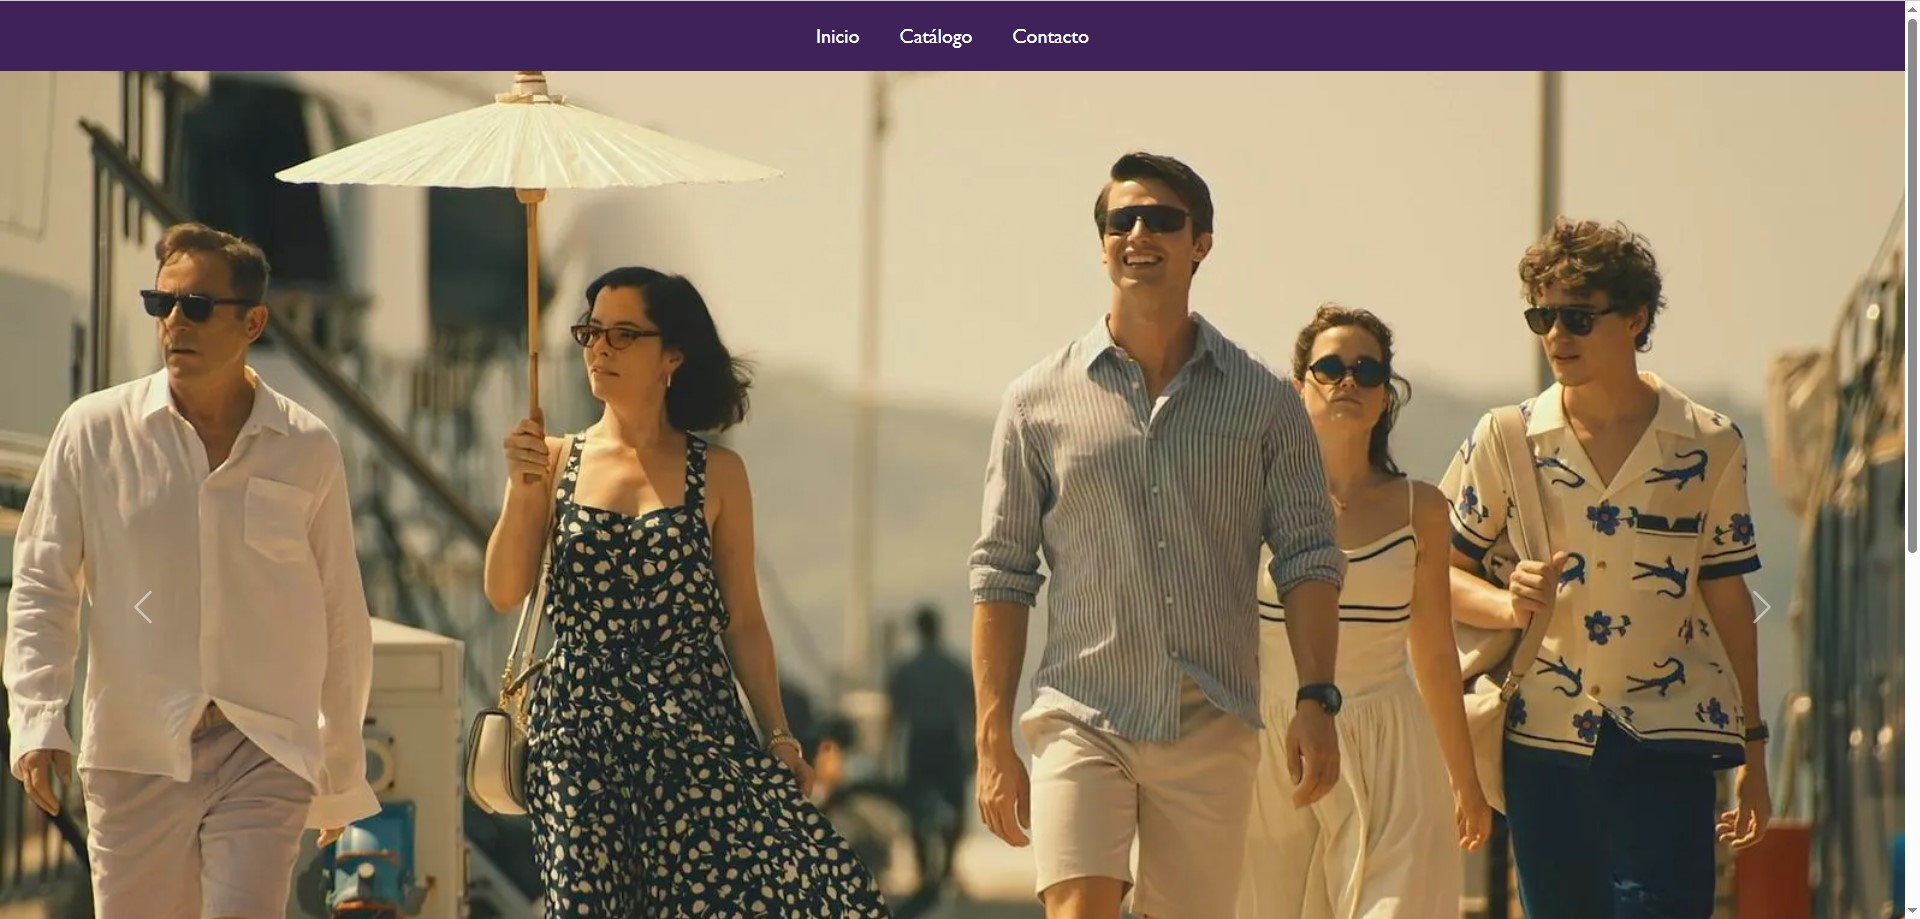
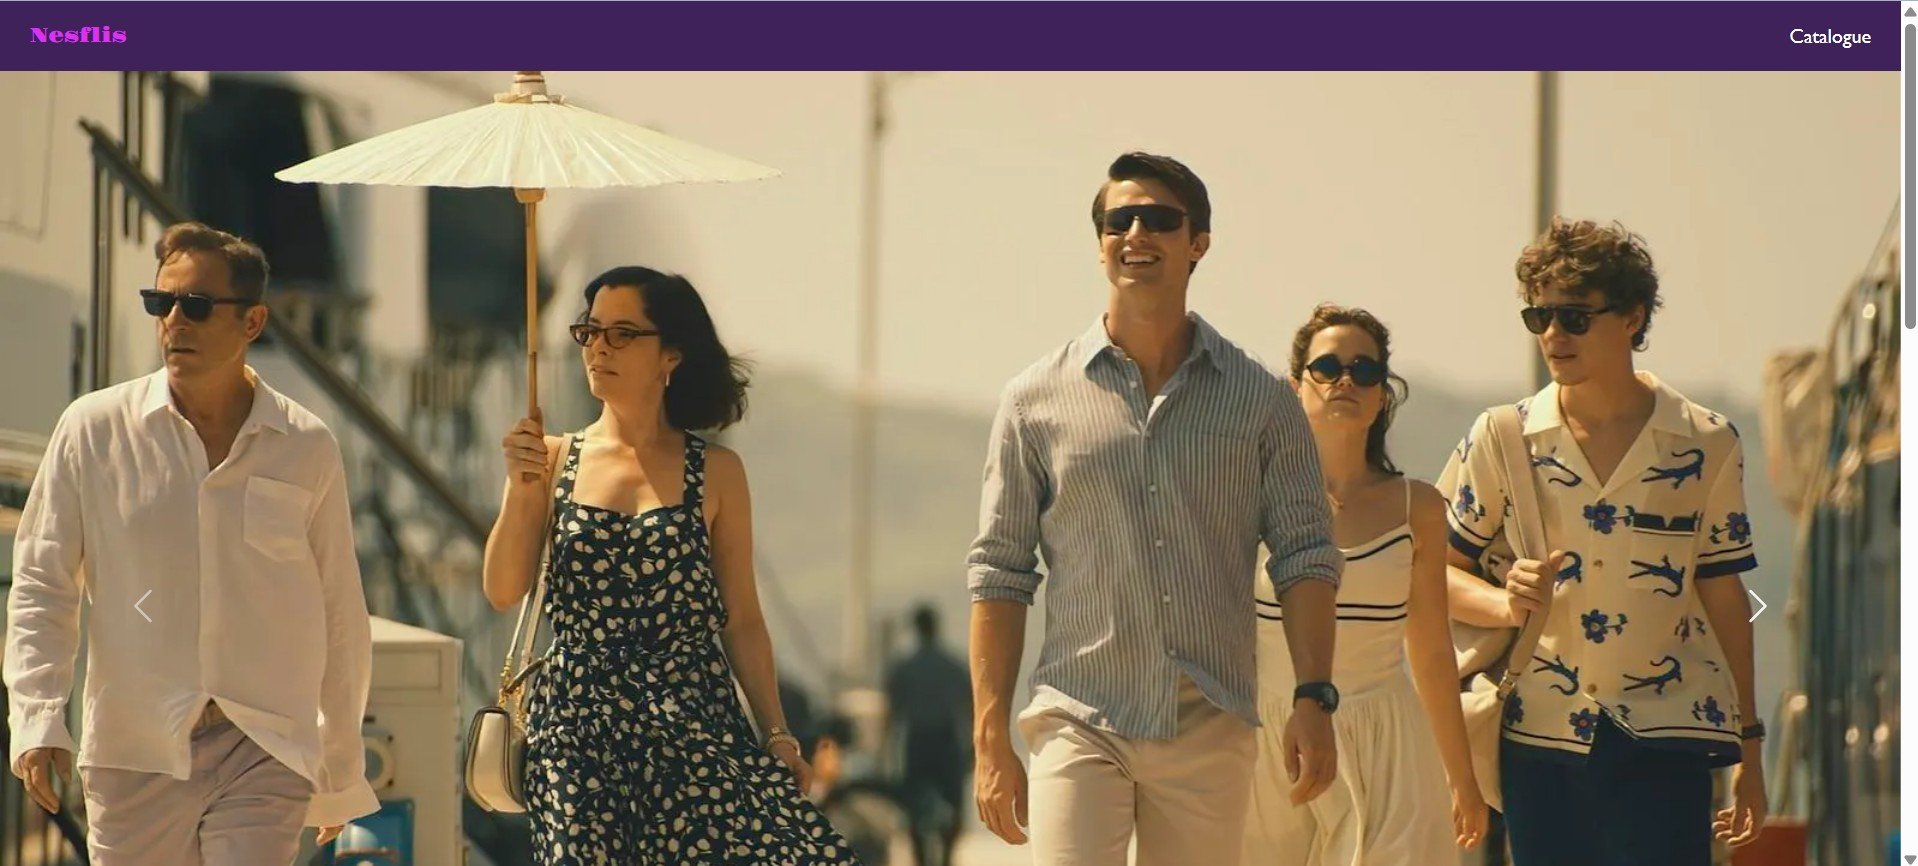
style: readme

Changed region(s): [[0.0, 0.0, 1.0, 1.0], [0.123, 0.1559, 0.3691, 0.2494], [0.1846, 0.1247, 0.2461, 0.1559]]

diff --git a/mainPage.html b/mainPage.html
@@ -11,10 +11,9 @@
 </head>
 
 <body>
-    <nav class="nav nav-bar justify-content-center p-2">
-        <a class="nav-link text-white" href="">Home</a>
+    <nav class="nav nav-bar p-2">
+        <a class="nav-link" href="" id="logo">Nesflis</a>
         <a class="nav-link text-white" href="#catalogue">Catalogue</a>
-        <a class="nav-link text-white" href="">Contacto</a>
     </nav>
     <div id="carouselExample" class="carousel slide">
         <div class="carousel-inner">
@@ -40,7 +39,6 @@
     <div class="apartado" id="catalogue">
         <h3>Catalogue</h3>
         <div id="recomendaciones-cont" class="list-content"></div>
-        <h3>El que sigue</h3>
     </div>
     <script src="https://cdn.jsdelivr.net/npm/bootstrap@5.3.4/dist/js/bootstrap.bundle.min.js"
         integrity="sha384-YUe2LzesAfftltw+PEaao2tjU/QATaW/rOitAq67e0CT0Zi2VVRL0oC4+gAaeBKu"

diff --git a/style.css b/style.css
@@ -29,10 +29,27 @@ body{
 }
 
 .nav-bar{
+    display: flex;
+    justify-content: space-between;
     background-color: #3E2259;
 }
 
-.list-content{
-    display: flex;
-    flex-direction: row;
+.list-content {
+    display: grid;
+    grid-template-columns: repeat(4, 1fr); /* 4 columnas en pantallas grandes */
+    gap: 1rem; /* Espaciado entre los elementos */
+}
+
+@media (max-width: 768px) { /* Para pantallas pequeñas (celulares) */
+    .list-content {
+        grid-template-columns: repeat(2, 1fr); /* 2 columnas en pantallas pequeñas */
+    }
+}
+
+.card{
+    background-color: #B682D9;
+}
+
+.card:hover{
+    background-color: #D94A4A;
 }

diff --git a/README.md b/README.md
@@ -2,14 +2,20 @@
 ## Description
 Streaming platform made with html, vanilla js and css
 ## Screenshots
-User login
+### User login
 ![Login](./readme_sources/login.jpg)
-Main Page
+Se ingresa el correo (cualquiera) y la contraseña (cualquiera) en los campos requeridos
+### Main Page
 ![Main Page](./readme_sources/mainPage.jpg)
-Catalogue of movies and series
+Se muestra la barra de navegacion y un carrousel con las recomendaciones de contenido
+### Catalogue of movies and series
 ![Catalogue](./readme_sources/catalogue.jpg)
-Detailed View of the movie or series selected
+Apartado con el catalogo de contenido disponible sacado de peliculas_series.json
+![Catalogue 2](./readme_sources/catalogue2.jpg)
+Cuando se selecciona un contenido, el elemento cambia de color para identificarlo
+### Detailed View of the movie or series selected
 ![Detailed View](./readme_sources/detailedView.jpg)
+Se observa además del título, la duración y sinopsis
 ## Mockup
 ![Mockup](./readme_sources/mockup.jpg)
 ## Instrucciones
@@ -26,7 +32,9 @@ Detailed View of the movie or series selected
 7. Procedí a crear la estructura de detailedView.html
 ## Problemas conocidos
 * No es necesario escribir el correo y contraseña para iniciar sesión.
-* La lista de "Más recomendaciones" "amontona los contenidos".
+* El boton de "watch now" no hace nada.
+* Si se despliega otro archivo html que no sea el index, es probable que las peliculas y series no se desplieguen.
+* El carrousel no cuenta con elementos seleccionables.
 ## Retrospectiva
 | Que salio bien? | Que puedo hacer diferente? | Que no salio bien ? |
 ------------------|----------------------------|-----------------------
